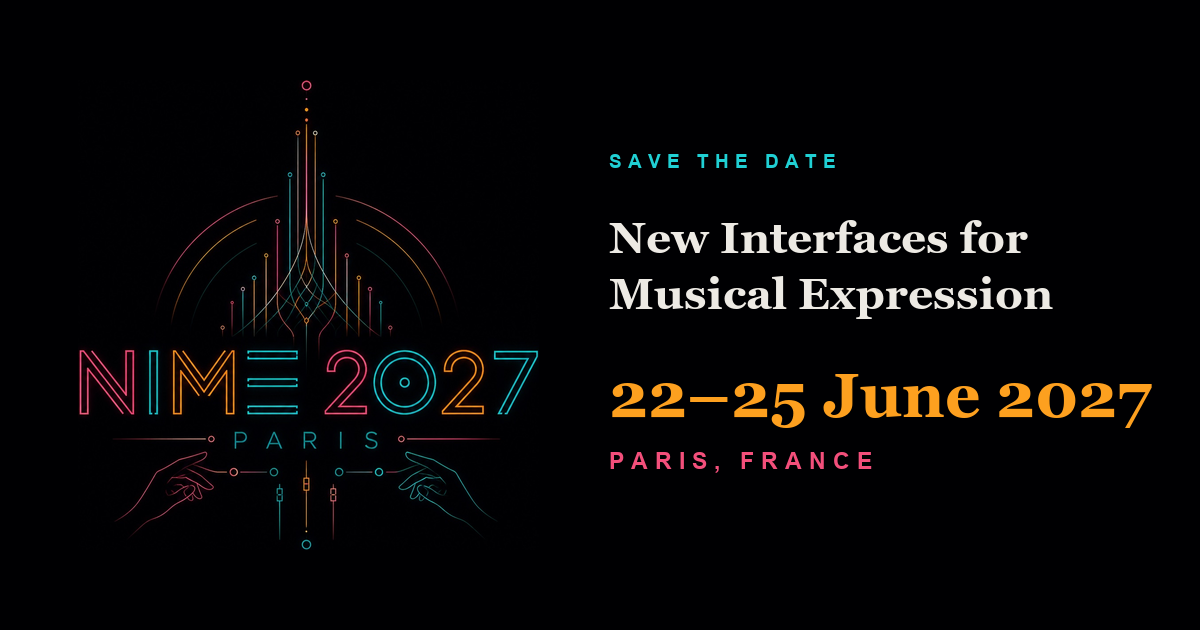
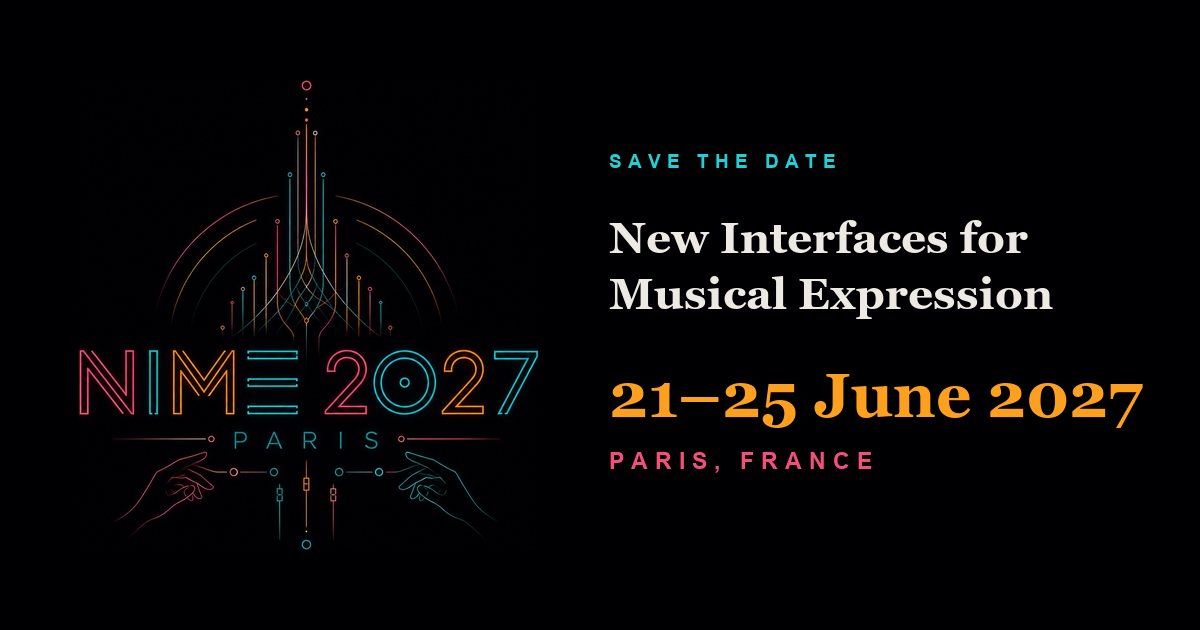
Publish the conference dates as 21-25 June
The organisers include the pre-conference activities in the announced range,
so a visitor booking travel against 22-25 would miss the first day. This is
also what nime.org already announces.

The date is baked into the Open Graph share card as pixels, so that image is
regenerated too, along with its alt text.

Changed region(s): [[0.5242, 0.573, 0.9558, 0.6937]]

diff --git a/src/content/site.ts b/src/content/site.ts
@@ -12,8 +12,13 @@ export const conference = {
   fullName: "New Interfaces for Musical Expression",
   /** nime.org's own wording for the conference series. */
   seriesName: "The International Conference on",
-  dates: "22–25 June 2027",
-  datesShort: "22–25 JUN 2027",
+  /**
+   * 21-25 June, not 22-25: the organisers include the pre-conference
+   * activities in the published range so nobody books travel that misses them.
+   * This also matches what nime.org announces.
+   */
+  dates: "21–25 June 2027",
+  datesShort: "21–25 JUN 2027",
   city: "Paris",
   country: "France",
   location: "Paris, France",
